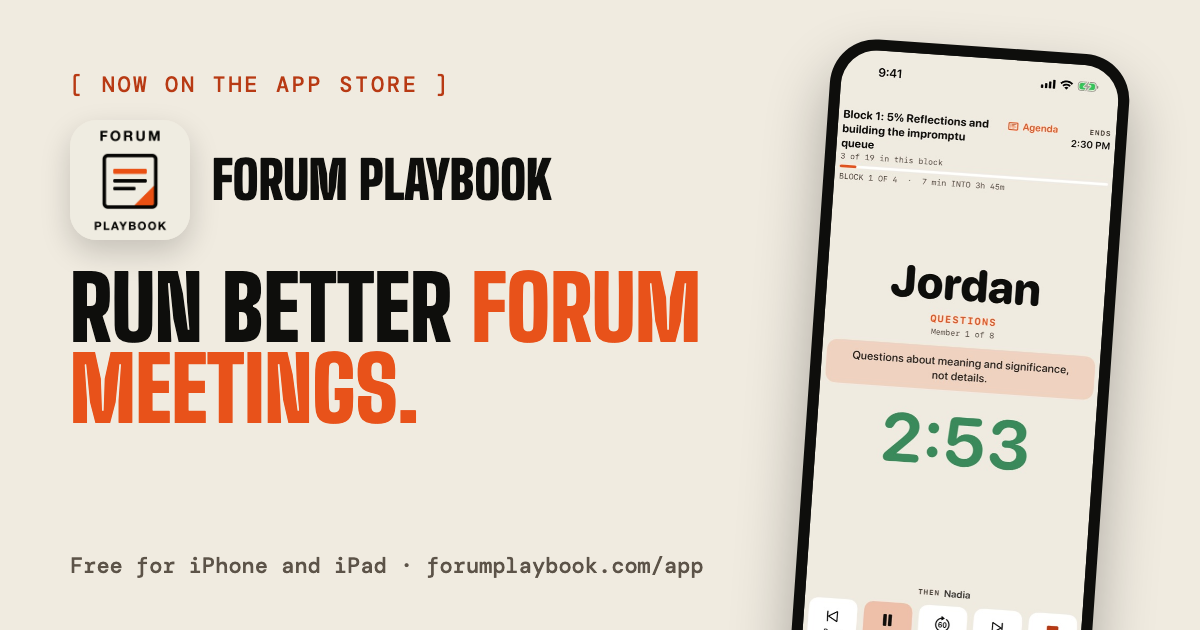
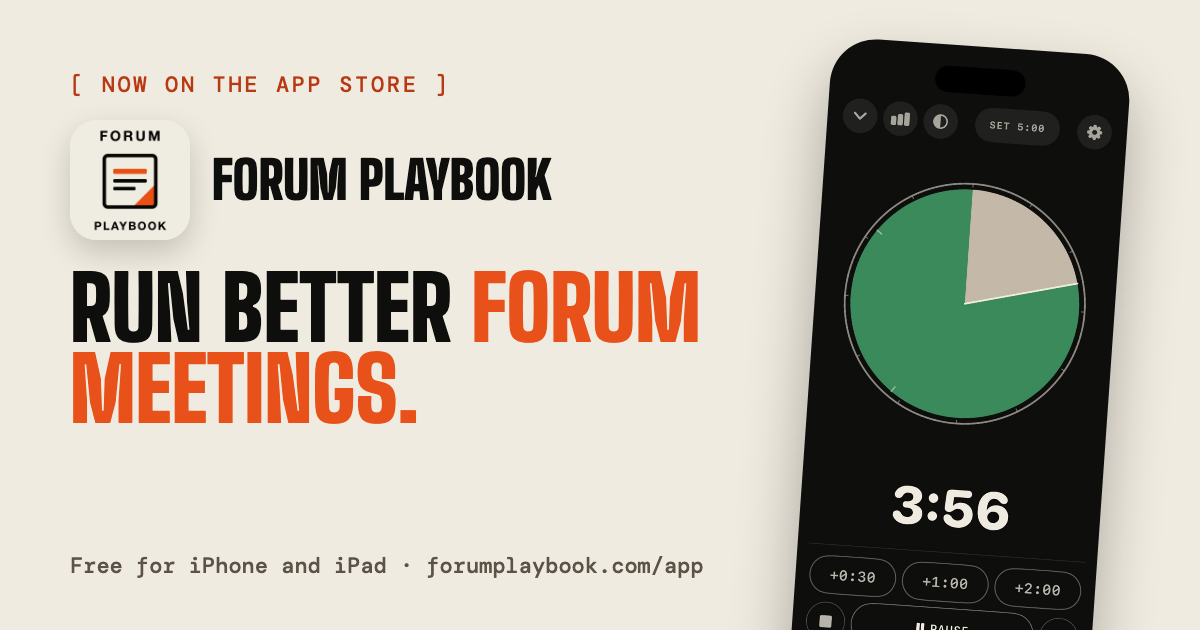
/app/ 1.1.0: lead with the clock-face timer

Changed region(s): [[0.6475, 0.0603, 0.9558, 1.0]]

diff --git a/app/index.html b/app/index.html
@@ -82,7 +82,7 @@
   </a>
   <span class="ibar-rule" aria-hidden="true"></span>
   <span class="ibar-page">The App</span>
-  <span class="ibar-meta">Updated Thu / 2026-10-08 / 2:57 AM CT</span>
+  <span class="ibar-meta">Updated Thu / 2026-10-08 / 3:26 AM CT</span>
   <nav class="ibar-nav" aria-label="Main navigation">
     <a href="/#resources" class="ibar-hit ibar-cool ibar-link"><span>Resources</span></a>
     <a href="/timer" class="ibar-hit ibar-cool ibar-link"><span>Timer</span></a>
@@ -106,19 +106,20 @@
       </div>
       <div class="trust"><span><svg class="icon icon-wifi-slash" width="24" height="24" viewBox="0 0 256 256" xmlns="http://www.w3.org/2000/svg" aria-hidden="true"><path fill="currentColor" d="M138 204a10 10 0 1 1-10-10a10 10 0 0 1 10 10M52.44 36a6 6 0 0 0-8.88 8l17.77 19.58a169.4 169.4 0 0 0-41.14 25a6 6 0 1 0 7.62 9.27A157.6 157.6 0 0 1 69.91 73l26.48 29.13a122.2 122.2 0 0 0-44.12 22.19a6 6 0 0 0 7.46 9.41a110 110 0 0 1 45.87-21.47l31.13 34.25A74 74 0 0 0 128 146a73.44 73.44 0 0 0-43.53 14.15A6 6 0 0 0 88 171a5.93 5.93 0 0 0 3.53-1.15a62 62 0 0 1 59.76-7.31L203.56 220a6 6 0 0 0 8.88-8.08Zm183.37 52.55A170.32 170.32 0 0 0 128 50a174 174 0 0 0-21.76 1.38a6 6 0 1 0 1.52 11.9A161 161 0 0 1 128 62a158.26 158.26 0 0 1 100.19 35.82a6 6 0 1 0 7.62-9.27m-39.54 45.2A6 6 0 0 0 200 135a6 6 0 0 0 3.73-10.7a122.26 122.26 0 0 0-50.9-23.81a6 6 0 1 0-2.43 11.75a110 110 0 0 1 45.87 21.51"/></svg>Works offline</span><span><svg class="icon icon-lock-key" width="24" height="24" viewBox="0 0 256 256" xmlns="http://www.w3.org/2000/svg" aria-hidden="true"><path fill="currentColor" d="M208 82h-34V56a46 46 0 0 0-92 0v26H48a14 14 0 0 0-14 14v112a14 14 0 0 0 14 14h160a14 14 0 0 0 14-14V96a14 14 0 0 0-14-14M94 56a34 34 0 0 1 68 0v26H94Zm116 152a2 2 0 0 1-2 2H48a2 2 0 0 1-2-2V96a2 2 0 0 1 2-2h160a2 2 0 0 1 2 2Zm-82-94a26 26 0 0 0-6 51.29V184a6 6 0 0 0 12 0v-18.71a26 26 0 0 0-6-51.29m0 40a14 14 0 1 1 14-14a14 14 0 0 1-14 14"/></svg>Nothing leaves your device</span><span><svg class="icon icon-bell-ringing" width="24" height="24" viewBox="0 0 256 256" xmlns="http://www.w3.org/2000/svg" aria-hidden="true"><path fill="currentColor" d="M223.05 69.33a6 6 0 0 1-8.05-2.57a96 96 0 0 0-34.2-37.68a6 6 0 0 1 6.4-10.15a109.26 109.26 0 0 1 38.41 42.31a6 6 0 0 1-2.56 8.09M41 66.76a96 96 0 0 1 34.2-37.68a6 6 0 0 0-6.4-10.15a109.26 109.26 0 0 0-38.41 42.31A6 6 0 1 0 41 66.76m179 110.18A14 14 0 0 1 208 198h-42.5a38 38 0 0 1-75 0H48a14 14 0 0 1-12.06-21.06C45.13 161.09 50 138.63 50 112a78 78 0 0 1 156 0c0 27 4.74 48.86 14.08 64.94ZM153.29 198h-50.58a26 26 0 0 0 50.58 0m56.42-15C199.29 165 194 141.15 194 112a66 66 0 0 0-132 0c0 29.16-5.29 53-15.71 71a2 2 0 0 0 0 2a1.9 1.9 0 0 0 1.7 1H208a1.9 1.9 0 0 0 1.7-1a2 2 0 0 0 .01-2"/></svg>Alerts through silent mode</span></div>
     </div>
-    <div class="phone"><img src="/app/img/3-meeting.jpg" width="600" height="1304" alt="The meeting runner on an iPhone: Jordan's turn in Block 1, 2:53 left, Pause and Next below"></div>
+    <div class="phone"><img src="/app/img/0-timer.jpg" width="600" height="1304" alt="The timer on an iPhone: a green clock face ticking down, 3:56 left of five minutes"></div>
   </section>
 
   <h2 class="sec">Inside the app</h2>
   <div class="shots">
     <div class="shot"><div class="phone"><img src="/app/img/1-forum.jpg" width="600" height="1304" alt="Your Forum screen: the next meeting with its presenter and coach, the roster below" loading="lazy"></div><h3>Your forum</h3><p>Members, who moderates, who presents next, and when you meet. The next meeting sits on the home screen.</p></div>
     <div class="shot"><div class="phone"><img src="/app/img/2-parking.jpg" width="600" height="1304" alt="The parking lot: EQ and IQ topics with who parked them and how long ago" loading="lazy"></div><h3>The parking lot</h3><p>Every parked topic, EQ and IQ, longest waiting first. Pull one at random when the room needs it.</p></div>
-    <div class="shot"><div class="phone"><img src="/app/img/4-sizer.jpg" width="600" height="1304" alt="Size a topic: the verdict reads EQ deep dive, 30 to 40 minutes, with the steps to run it" loading="lazy"></div><h3>Size a topic</h3><p>Four questions, then the format, the protocol in named steps, and a button that starts exactly that segment.</p></div>
+    <div class="shot"><div class="phone"><img src="/app/img/3-meeting.jpg" width="600" height="1304" alt="The meeting runner: Jordan's turn in Block 1, 2:53 left, Pause and Next below" loading="lazy"></div><h3>The meeting</h3><p>Block by block: whose turn it is in type the room can read, what this minute is for, and who is next.</p></div>
   </div>
 
   <h2 class="sec">What it does</h2>
   <ul class="feat">
-    <li><span class="i"><svg class="icon icon-timer" width="24" height="24" viewBox="0 0 256 256" xmlns="http://www.w3.org/2000/svg" aria-hidden="true"><path fill="currentColor" d="M128 42a94 94 0 1 0 94 94a94.11 94.11 0 0 0-94-94m0 176a82 82 0 1 1 82-82a82.1 82.1 0 0 1-82 82m44.24-126.24a6 6 0 0 1 0 8.48l-40 40a6 6 0 1 1-8.48-8.48l40-40a6 6 0 0 1 8.48 0M98 16a6 6 0 0 1 6-6h48a6 6 0 0 1 0 12h-48a6 6 0 0 1-6-6"/></svg></span><span><b>The meeting, block by block</b>The Standard Forum as a real four-block meeting: whose turn it is in type you can read across the table, and the rest rebalances when you add a minute.</span></li>
+    <li><span class="i"><svg class="icon icon-timer" width="24" height="24" viewBox="0 0 256 256" xmlns="http://www.w3.org/2000/svg" aria-hidden="true"><path fill="currentColor" d="M128 42a94 94 0 1 0 94 94a94.11 94.11 0 0 0-94-94m0 176a82 82 0 1 1 82-82a82.1 82.1 0 0 1-82 82m44.24-126.24a6 6 0 0 1 0 8.48l-40 40a6 6 0 1 1-8.48-8.48l40-40a6 6 0 0 1 8.48 0M98 16a6 6 0 0 1 6-6h48a6 6 0 0 1 0 12h-48a6 6 0 0 1-6-6"/></svg></span><span><b>A timer the whole room can read</b>Green, then gold, then red, on a clock face or full-screen bars, with alerts that play through the silent switch. </span></li>
+    <li><span class="i"><svg class="icon icon-stack" width="24" height="24" viewBox="0 0 256 256" xmlns="http://www.w3.org/2000/svg" aria-hidden="true"><path fill="currentColor" d="M229.18 173a6 6 0 0 1-2.16 8.2l-96 56a6 6 0 0 1-6 0l-96-56a6 6 0 0 1 6-10.36l93 54.23l93-54.23a6 6 0 0 1 8.16 2.16M221 122.82l-93 54.23l-93-54.23a6 6 0 0 0-6 10.36l96 56a6 6 0 0 0 6 0l96-56a6 6 0 0 0-6-10.36M26 80a6 6 0 0 1 3-5.18l96-56a6 6 0 0 1 6 0l96 56a6 6 0 0 1 0 10.36l-96 56a6 6 0 0 1-6 0l-96-56A6 6 0 0 1 26 80m17.91 0L128 129.05L212.09 80L128 31Z"/></svg></span><span><b>The meeting, block by block</b>The Standard Forum as a real four-block meeting: whose turn it is in type you can read across the table, and the rest rebalances when you add a minute.</span></li>
     <li><span class="i"><svg class="icon icon-users-three" width="24" height="24" viewBox="0 0 256 256" xmlns="http://www.w3.org/2000/svg" aria-hidden="true"><path fill="currentColor" d="M243.6 148.8a6 6 0 0 1-8.4-1.2A53.58 53.58 0 0 0 192 126a6 6 0 0 1 0-12a26 26 0 1 0-25.18-32.5a6 6 0 0 1-11.62-3a38 38 0 1 1 59.91 39.63a65.7 65.7 0 0 1 29.69 22.27a6 6 0 0 1-1.2 8.4M189.19 213a6 6 0 0 1-2.19 8.2a5.9 5.9 0 0 1-3 .81a6 6 0 0 1-5.2-3a59 59 0 0 0-101.62 0a6 6 0 1 1-10.38-6a70.1 70.1 0 0 1 36.2-30.46a46 46 0 1 1 50.1 0A70.1 70.1 0 0 1 189.19 213M128 178a34 34 0 1 0-34-34a34 34 0 0 0 34 34m-58-58a6 6 0 0 0-6-6a26 26 0 1 1 25.18-32.51a6 6 0 1 0 11.62-3a38 38 0 1 0-59.91 39.63A65.7 65.7 0 0 0 11.2 140.4a6 6 0 1 0 9.6 7.2A53.58 53.58 0 0 1 64 126a6 6 0 0 0 6-6"/></svg></span><span><b>Your forum</b>The roster, the rotation, the next meeting, and reminders that count back from it.</span></li>
     <li><span class="i"><svg class="icon icon-list-checks" width="24" height="24" viewBox="0 0 256 256" xmlns="http://www.w3.org/2000/svg" aria-hidden="true"><path fill="currentColor" d="M222 128a6 6 0 0 1-6 6h-88a6 6 0 0 1 0-12h88a6 6 0 0 1 6 6m-94-58h88a6 6 0 0 0 0-12h-88a6 6 0 0 0 0 12m88 116h-88a6 6 0 0 0 0 12h88a6 6 0 0 0 0-12M83.76 43.76L56 71.51L44.24 59.76a6 6 0 0 0-8.48 8.48l16 16a6 6 0 0 0 8.48 0l32-32a6 6 0 0 0-8.48-8.48m0 64L56 135.51l-11.76-11.75a6 6 0 1 0-8.48 8.48l16 16a6 6 0 0 0 8.48 0l32-32a6 6 0 0 0-8.48-8.48m0 64L56 199.51l-11.76-11.75a6 6 0 0 0-8.48 8.48l16 16a6 6 0 0 0 8.48 0l32-32a6 6 0 0 0-8.48-8.48"/></svg></span><span><b>Decisions and the debrief</b>Housekeeping captured while everyone is still in the room, then the recap email in one tap.</span></li>
     <li><span class="i"><svg class="icon icon-notepad" width="24" height="24" viewBox="0 0 256 256" xmlns="http://www.w3.org/2000/svg" aria-hidden="true"><path fill="currentColor" d="M166 128a6 6 0 0 1-6 6H96a6 6 0 0 1 0-12h64a6 6 0 0 1 6 6m-6 26H96a6 6 0 0 0 0 12h64a6 6 0 0 0 0-12m54-114v160a30 30 0 0 1-30 30H72a30 30 0 0 1-30-30V40a6 6 0 0 1 6-6h26V24a6 6 0 0 1 12 0v10h36V24a6 6 0 0 1 12 0v10h36V24a6 6 0 0 1 12 0v10h26a6 6 0 0 1 6 6m-12 6h-20v10a6 6 0 0 1-12 0V46h-36v10a6 6 0 0 1-12 0V46H86v10a6 6 0 0 1-12 0V46H54v154a18 18 0 0 0 18 18h112a18 18 0 0 0 18-18Z"/></svg></span><span><b>Your 5% reflections</b>Write them, or photograph the sheet you filled in by hand. Private, on your phone.</span></li>
@@ -131,7 +132,7 @@
 <footer class="cfoot">
   <nav class="cfoot-nav" aria-label="Site pages"><a href="/">Home</a> <a href="/timer">Forum Timer</a> <a href="/brand">Brand</a> <a href="/legal">Privacy &amp; Terms</a> <a href="/app/" aria-current="page">The app</a> <a href="/chapters/">Chapters + Forums</a> <a href="/concepts/">Concepts</a> <a href="/concepts/regionaltrainingdays/">Regional Training Days</a> <a href="/concepts/catalystcollective/">Catalyst Collective</a> <a href="/concepts/catalystcollective/journey/">Catalyst journeys</a> <a href="/concepts/catalystcollective/model/">Catalyst model</a> <a href="/concepts/catalystcollective/surveys/">Catalyst surveys</a> <a href="/concepts/catalystcollective/library/">Catalyst library</a> <a href="/concepts/catalystcollective/feedback/">Catalyst feedback</a></nav>
   <p class="cfoot-line">Forum Playbook &middot; Built by Colton &middot; <a href="https://builtbycolton.com" target="_blank" rel="noopener">builtbycolton.com</a></p>
-  <details class="cfoot-ver"><summary>v1.0.0 &middot; changelog</summary><ul><li>1.0.0 (Thu / 2026-10-08 / 2:57 AM CT): first version, the day after the app went live on the App Store: the icon, Apple's badge, the app on a phone, and what it does.</li></ul></details>
+  <details class="cfoot-ver"><summary>v1.1.0 &middot; changelog</summary><ul><li>1.1.0 (Thu / 2026-10-08 / 3:26 AM CT): the timer leads, on its green clock face (Colton: lots of color, very clear what is happening).</li><li>1.0.0 (Thu / 2026-10-08): first version, the day after the app went live on the App Store: the icon, Apple's badge, the app on a phone, and what it does.</li></ul></details>
 </footer>
 
 <!-- Cloudflare Web Analytics --><script defer src='https://static.cloudflareinsights.com/beacon.min.js' data-cf-beacon='{"token": "c20145f631df48ff8dc17a09c0c3fcdb"}'></script><!-- End Cloudflare Web Analytics -->

diff --git a/app/_src/index.html b/app/_src/index.html
@@ -106,19 +106,20 @@
       </div>
       <div class="trust"><span>{{icon:wifi-slash}}Works offline</span><span>{{icon:lock-key}}Nothing leaves your device</span><span>{{icon:bell-ringing}}Alerts through silent mode</span></div>
     </div>
-    <div class="phone"><img src="/app/img/3-meeting.jpg" width="600" height="1304" alt="The meeting runner on an iPhone: Jordan's turn in Block 1, 2:53 left, Pause and Next below"></div>
+    <div class="phone"><img src="/app/img/0-timer.jpg" width="600" height="1304" alt="The timer on an iPhone: a green clock face ticking down, 3:56 left of five minutes"></div>
   </section>
 
   <h2 class="sec">Inside the app</h2>
   <div class="shots">
     <div class="shot"><div class="phone"><img src="/app/img/1-forum.jpg" width="600" height="1304" alt="Your Forum screen: the next meeting with its presenter and coach, the roster below" loading="lazy"></div><h3>Your forum</h3><p>Members, who moderates, who presents next, and when you meet. The next meeting sits on the home screen.</p></div>
     <div class="shot"><div class="phone"><img src="/app/img/2-parking.jpg" width="600" height="1304" alt="The parking lot: EQ and IQ topics with who parked them and how long ago" loading="lazy"></div><h3>The parking lot</h3><p>Every parked topic, EQ and IQ, longest waiting first. Pull one at random when the room needs it.</p></div>
-    <div class="shot"><div class="phone"><img src="/app/img/4-sizer.jpg" width="600" height="1304" alt="Size a topic: the verdict reads EQ deep dive, 30 to 40 minutes, with the steps to run it" loading="lazy"></div><h3>Size a topic</h3><p>Four questions, then the format, the protocol in named steps, and a button that starts exactly that segment.</p></div>
+    <div class="shot"><div class="phone"><img src="/app/img/3-meeting.jpg" width="600" height="1304" alt="The meeting runner: Jordan's turn in Block 1, 2:53 left, Pause and Next below" loading="lazy"></div><h3>The meeting</h3><p>Block by block: whose turn it is in type the room can read, what this minute is for, and who is next.</p></div>
   </div>
 
   <h2 class="sec">What it does</h2>
   <ul class="feat">
-    <li><span class="i">{{icon:timer}}</span><span><b>The meeting, block by block</b>The Standard Forum as a real four-block meeting: whose turn it is in type you can read across the table, and the rest rebalances when you add a minute.</span></li>
+    <li><span class="i">{{icon:timer}}</span><span><b>A timer the whole room can read</b>Green, then gold, then red, on a clock face or full-screen bars, with alerts that play through the silent switch. </span></li>
+    <li><span class="i">{{icon:stack}}</span><span><b>The meeting, block by block</b>The Standard Forum as a real four-block meeting: whose turn it is in type you can read across the table, and the rest rebalances when you add a minute.</span></li>
     <li><span class="i">{{icon:users-three}}</span><span><b>Your forum</b>The roster, the rotation, the next meeting, and reminders that count back from it.</span></li>
     <li><span class="i">{{icon:list-checks}}</span><span><b>Decisions and the debrief</b>Housekeeping captured while everyone is still in the room, then the recap email in one tap.</span></li>
     <li><span class="i">{{icon:notepad}}</span><span><b>Your 5% reflections</b>Write them, or photograph the sheet you filled in by hand. Private, on your phone.</span></li>
@@ -131,7 +132,7 @@
 <footer class="cfoot">
   <nav class="cfoot-nav" aria-label="Site pages"></nav>
   <p class="cfoot-line">Forum Playbook &middot; Built by Colton &middot; <a href="https://builtbycolton.com" target="_blank" rel="noopener">builtbycolton.com</a></p>
-  <details class="cfoot-ver"><summary>v1.0.0 &middot; changelog</summary><ul><li>1.0.0 ({{STAMPDATE}}): first version, the day after the app went live on the App Store: the icon, Apple's badge, the app on a phone, and what it does.</li></ul></details>
+  <details class="cfoot-ver"><summary>v1.1.0 &middot; changelog</summary><ul><li>1.1.0 ({{STAMPDATE}}): the timer leads, on its green clock face (Colton: lots of color, very clear what is happening).</li><li>1.0.0 (Thu / 2026-10-08): first version, the day after the app went live on the App Store: the icon, Apple's badge, the app on a phone, and what it does.</li></ul></details>
 </footer>
 <script defer src='https://static.cloudflareinsights.com/beacon.min.js' data-cf-beacon='{"token": "COUNTER"}'></script>
 </body></html>

diff --git a/CHANGELOG.md b/CHANGELOG.md
@@ -14,6 +14,7 @@ Code and housed-document changes only. Library resources and videos sync from Go
 
 ## 2026-10-08
 
+- **/app/ 1.1.0: the timer leads** (Colton: show the timer first, lots of color, the circular face with the green time ticking down). The hero phone is the quick countdown on its clock face, a new "A timer the whole room can read" feature leads the list, the meeting runner moves into the row of phones, and og.png uses the timer. The clock face is in the live 1.1 app, so the page still matches what people download.
 - **NEW: /app/, the Forum Playbook app page (v1.0.0), the day after the app went live on the App Store** (Colton: the regular icon, the official App Store badge, and a shot of it on the phone). The app icon, Apple's own "Download on the App Store" badge (Apple's artwork, unaltered, served by Apple's marketing tools at toolbox.marketingtools.apple.com), the meeting runner on a CSS iPhone frame, three more phones (your forum, the parking lot, size a topic), and six features with Phosphor icons. Copy is lifted from the approved App Store listing (APPSTORE-1.1.md in the app repo). `apple-itunes-app` meta, so Safari on iPhone offers the app. Own og.png, 1200x630. Built from app/_src/ by tools/build-app-page.py (v1.0.0); screenshots are web copies of the store set from build 13.
 - **Homepage: the "Coming Soon, Join the Beta" pill now says "Now on the App Store".** It carries the app icon and opens /app/, and Apple's badge beside it opens the listing (new tab). The IN FLIGHT claim on index.html, respected as far as a direct ask allows: the edit stays inside the existing app-beta block and its inline style (a wrapper div now holds the grid area "beta"), styles.css untouched, beta/ regenerated by tools/build-beta.py per rule 3. Branch `reel-fallback-ship` will need this block when it rebases. /app-beta/ stays up, no longer linked from the homepage.
 - **legal.html:** the third-party line now names Apple's badge.
